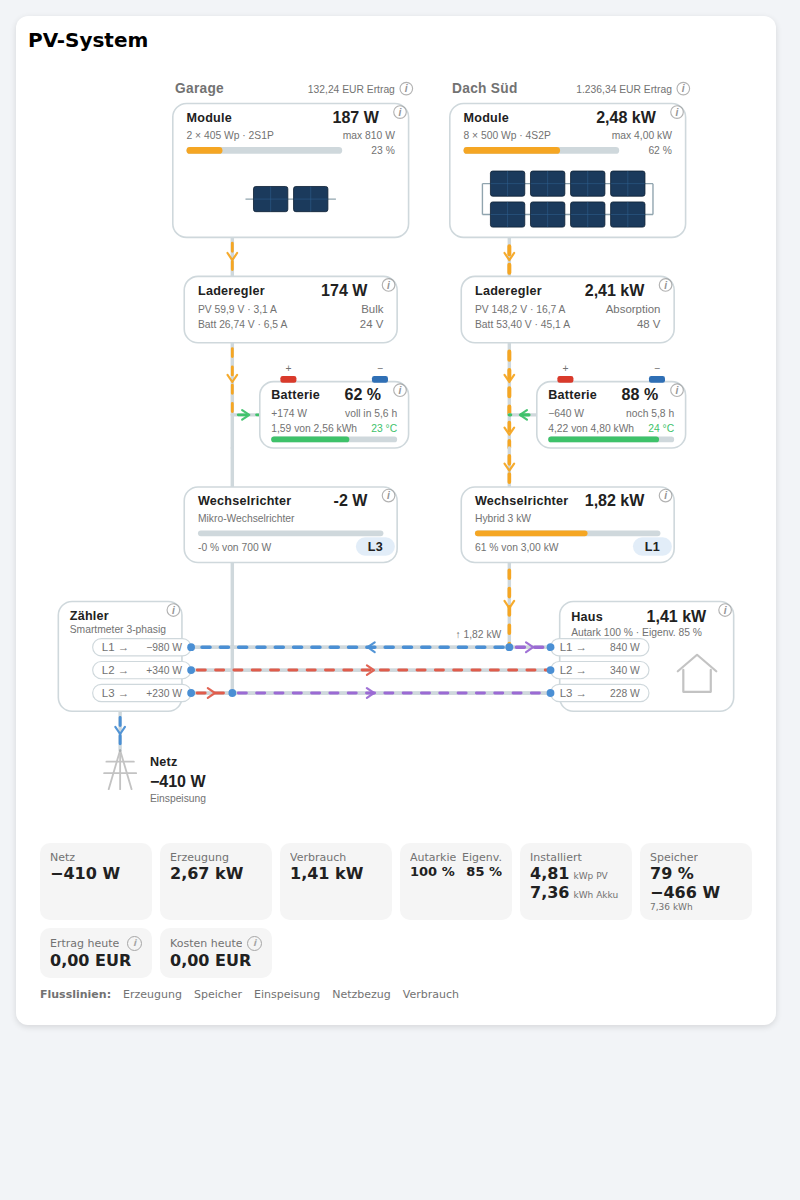
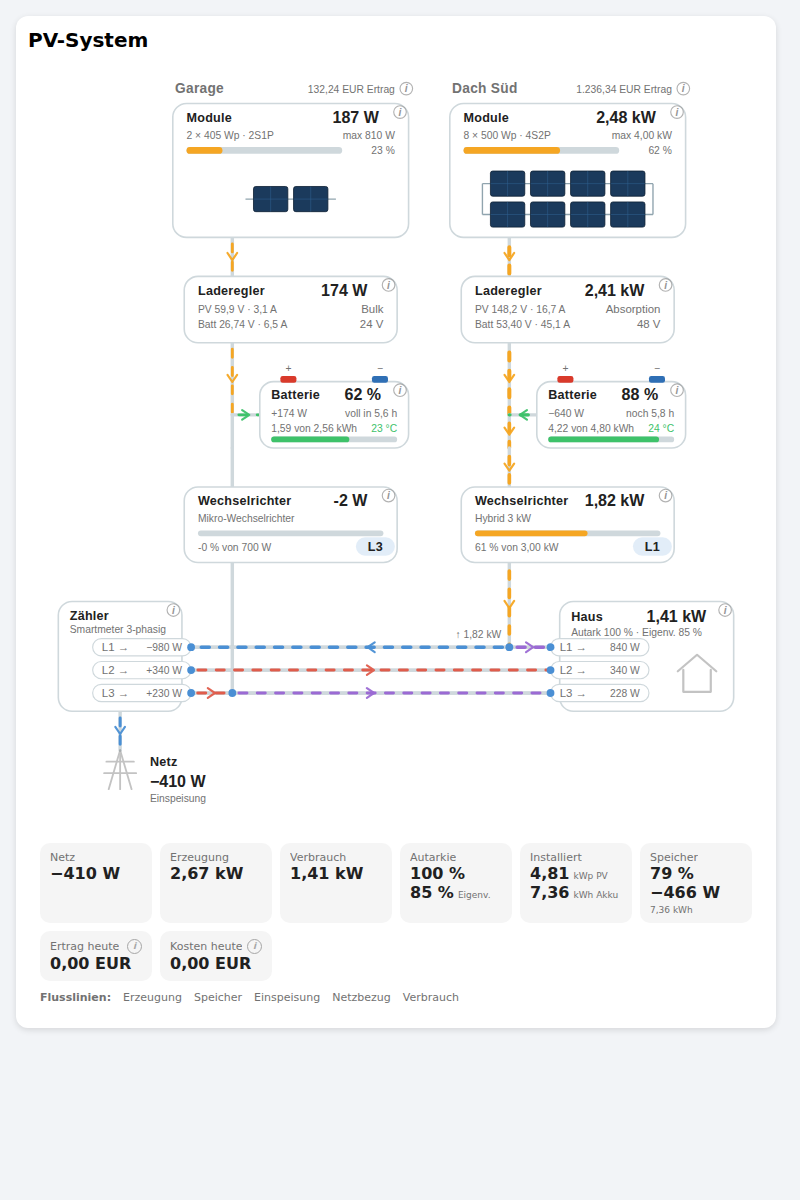
Autarkie untereinander, Luft über der Zusatzzeile
Autarkie und Eigenverbrauch standen nebeneinander und mussten dafür
kleiner werden - "100 %" und "85 %" brauchen in voller Größe zusammen 105
Pixel, die Kachel hat innen 92. Untereinander brauchen sie das nicht:
Beide stehen jetzt in voller Größe, wie beim Speicher und bei Installiert.
Das Wort "Eigenv." steht klein hinter der zweiten Zahl - anders als beim
Speicher ist es nötig, denn dort unterscheiden sich die Einheiten, hier
stünden zwei Prozentzahlen ohne Unterschied untereinander.

Damit trägt keine Kachel mehr zwei Spalten, und die Form dafür konnte
wieder verschwinden.

Die kleine Zusatzzeile bekommt drei Pixel Luft nach oben. Ohne sie klebte
der Grundverbrauch am Hausverbrauch darüber, als gehörte er zur selben
Zahl.

Claude-Session: https://claude.ai/code/session_018aqrMMMkeVs9NZNXqKcGY2

Changed region(s): [[0.0625, 0.7708, 0.5625, 0.8633], [0.5, 0.7092, 0.625, 0.7708], [0.8125, 0.74, 0.875, 0.7708]]

diff --git a/custom_components/pv_system/frontend/pv-system-card.js b/custom_components/pv_system/frontend/pv-system-card.js
@@ -623,18 +623,6 @@ class PvSystemCard extends HTMLElement {
       .kennzahl .kname {
         white-space: nowrap; overflow: hidden; text-overflow: ellipsis;
       }
-      /* Zweispaltige Kachel: Überschriften und Zahlen in derselben Aufteilung
-         untereinander, damit jede Zahl unter ihrem Wort steht. Die Zahl ist
-         eine Spur kleiner als in den einspaltigen Kacheln - "100 %" und
-         "85 %" brauchen in voller Größe zusammen 105 Pixel, die Kachel hat
-         innen 92. Klein genug ist sie immer noch die größte Schrift der
-         Kachel, und beide Quoten stehen nebeneinander, wo sie hingehören. */
-      .kennzahl .paar { display: flex; gap: 6px; justify-content: space-between; }
-      .kennzahl .paar .v { flex: 0 1 auto; min-width: 0; font-size: 13px; }
-      /* Der Abstand der Überschriften bleibt bei vier Pixeln: "Autarkie" und
-         "Eigenv." brauchen zusammen neunzig, und die Kachel hat
-         zweiundneunzig. Bei sechs stand dort "Autar…". */
-      .kennzahl .kname.zweit { text-align: right; }
       /* Nicht umbrechen: Lieber eine Zahl abgeschnitten als eine Kachel, die
          plötzlich doppelt so hoch ist und das Raster darunter verschiebt. */
       .kennzahl .v {
@@ -647,6 +635,9 @@ class PvSystemCard extends HTMLElement {
       .kennzahl .v2 {
         font-size: 9px; color: var(--secondary-text-color, #727272);
         white-space: nowrap; overflow: hidden; text-overflow: ellipsis;
+        /* Etwas Luft nach oben: Ohne sie klebte der Grundverbrauch am
+           Hausverbrauch darüber, als gehörte er zur selben Zahl. */
+        margin-top: 3px;
       }
       .kennzahl .v2:empty { display: none; }
       .kennzahl .v:has(> span:first-child:empty) { display: none; }
@@ -1825,10 +1816,11 @@ class PvSystemCard extends HTMLElement {
       ["netz", "Netz"],
       ["pv", "Erzeugung"],
       ["haus", "Verbrauch"],
-      // Zwei Quoten nebeneinander: Sie beantworten verwandte Fragen und
-      // gehören zusammengelesen - die eine schaut auf den Zähler, die
-      // andere auf das Dach.
-      ["autarkie", "Autarkie", { neben: "Eigenv." }],
+      // Zwei Quoten untereinander, beide in voller Größe: Sie beantworten
+      // verwandte Fragen - die eine schaut auf den Zähler, die andere auf das
+      // Dach. Nebeneinander mussten sie kleiner werden, weil "100 %" und
+      // "85 %" zusammen 105 Pixel brauchen und die Kachel innen 92 hat.
+      ["autarkie", "Autarkie", { untereinander: true }],
       // Zwei Zahlen gleichen Ranges: Was auf dem Dach liegt und was im
       // Keller steht. Beide gleich groß, jede mit ihrem Wort dahinter.
       ["peak", "Installiert", { untereinander: true }],
@@ -1856,14 +1848,6 @@ class PvSystemCard extends HTMLElement {
       const name = e("span", { class: "kname", text: beschriftung });
       kopf.appendChild(name);
       this._refs.set(`kpi:${schluessel}:name`, name);
-      // Die zweite Überschrift einer zweispaltigen Kachel. Leer bleibt sie,
-      // wo die Zahl für sich spricht - beim Speicher sagt das Vorzeichen,
-      // was die zweite Spalte meint.
-      if (art.neben !== undefined) {
-        const zweit = e("span", { class: "kname zweit", text: art.neben });
-        kopf.appendChild(zweit);
-        this._refs.set(`kpi:${schluessel}2:name`, zweit);
-      }
       // Das kleine „i“ sagt: Hier steckt mehr dahinter. Ohne Zeichen musste
       // man raten, welche Kachel sich öffnen lässt und welche nur dasteht.
       if (geldkachel) kopf.appendChild(e("span", { class: "info", text: "i" }));
@@ -1881,17 +1865,8 @@ class PvSystemCard extends HTMLElement {
         this._refs.set(`kpi:${name}:wort`, wort);
         eltern.appendChild(reihe);
       };
-      if (art.neben !== undefined) {
-        // Nebeneinander: zwei Zahlen gleicher Größe in einer Reihe, die
-        // Überschriften darüber in derselben Aufteilung.
-        const paar = e("div", { class: "paar" });
-        zeile(schluessel, paar);
-        zeile(`${schluessel}2`, paar);
-        z.appendChild(paar);
-      } else {
-        zeile(schluessel, z);
-        if (art.untereinander) zeile(`${schluessel}2`, z);
-      }
+      zeile(schluessel, z);
+      if (art.untereinander) zeile(`${schluessel}2`, z);
       // Eine zweite, kleinere Zeile für das, was sonst umbrechen würde: beim
       // Speicher die Kapazität, bei der Autarkie der Eigenverbrauch. Die
       // Kachelbreite bleibt dieselbe - auf dem Telefon stehen sonst plötzlich
@@ -2195,11 +2170,15 @@ class PvSystemCard extends HTMLElement {
     // 92 - und das Vorzeichen sagt dasselbe kürzer.
     this._setzen("kpi:akku:zusatz", t.battery_count && akkuKap ? kwh(akkuKap, l) : "");
     this._setzen("kpi:autarkie", prozent(d.house.self_sufficiency, l));
-    // Der Eigenverbrauch steht daneben, nicht darunter: Beide Quoten sind
-    // gleich wichtig und werden zusammen gelesen. Auch ohne Zahl steht er da
-    // - nachts wird nichts erzeugt, das im Haus bleiben könnte, die Quote ist
-    // dann nicht null, sondern unbestimmt, und ein Strich sagt das.
+    // Der Eigenverbrauch darunter, in derselben Größe. Auch ohne Zahl steht er
+    // da - nachts wird nichts erzeugt, das im Haus bleiben könnte, die Quote
+    // ist dann nicht null, sondern unbestimmt, und ein Strich sagt das.
+    //
+    // Das Wort dahinter ist hier nötig, anders als beim Speicher: Dort
+    // unterscheiden sich die Einheiten, hier stünden zwei Prozentzahlen ohne
+    // Unterschied untereinander.
     this._setzen("kpi:autarkie2", prozent(d.house.self_consumption, l));
+    this._setzen("kpi:autarkie2:wort", "Eigenv.");
     // Was fest verbaut ist, steht beisammen: oben das Dach, darunter der
     // Speicher. Zwei Zahlen gleichen Ranges, also auch gleich groß - das Wort
     // dahinter klein, damit man weiß, welche welche ist.
